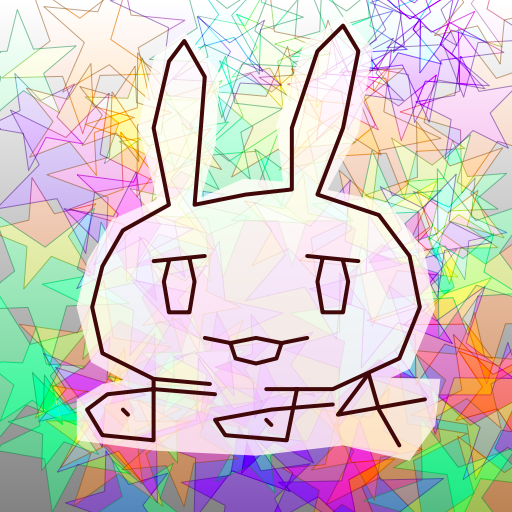
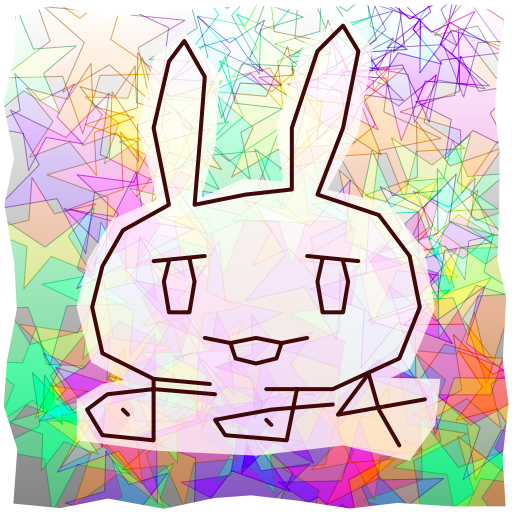
add frame to nanachi.rs

diff --git a/examples/nanachi.rs b/examples/nanachi.rs
@@ -10,7 +10,7 @@ use nanachi::{
     path_builder::PathBuilder,
     path_data_notation,
     path_transform::path_transform,
-    pixel::{Rgba, PremultipliedRgba},
+    pixel::{PremultipliedRgba, Rgba},
 };
 use rand_core::RngCore;
 use rand_pcg::Pcg32;
@@ -37,6 +37,7 @@ fn main() {
     let t = std::time::Instant::now();
     draw_nanachi(context.child());
     println!("elapsed: {:?}", t.elapsed());
+    draw_frame(context.child());
 
     let img: RgbaImage = (&context.image).into();
     let res = img.save("./nanachi.png");
@@ -256,19 +257,62 @@ fn draw_nanachi<'a>(mut context: ChildContext<'a, Pixel, GenericBuffer<Pixel>>) 
     };
     let mut path = nanachi_path;
     path.merge(&moji_path);
-    // let path = path
-    //     .as_points_list()
-    //     .unwrap()
-    //     .into_iter()
-    //     .map(|points| {
-    //         let close = points[0] == *points.last().unwrap();
-    //         Path::from_bezier2_points(&k_curve(points, close, 3))
-    //     })
-    //     .fold(Path::new(vec![]), |mut a, p| {
-    //         a.merge(&p);
-    //         a
-    //     });
     context.stroke(&path, &fill_style, 4.0);
+}
+
+fn draw_frame<'a>(mut context: ChildContext<'a, Pixel, GenericBuffer<Pixel>>) {
+    let mut rnd = Pcg32::new(0xcafef00dd15ea5e5, 0xa02bdbf7bb3c0a7);
+    let size = 8.0;
+    let mut rnd = || (1.0 - rnd.next_u32() as f64 / std::u32::MAX as f64 * 2.0) * size;
+    let mut builder = PathBuilder::new();
+    for i in 0..10 {
+        let (dx, dy) = (rnd(), rnd());
+        let i = i as f64 / 10.0;
+        builder.line_to(10.0 + i * (512.0 - 20.0) + dx, 10.0 + dy);
+    }
+    for i in 0..10 {
+        let (dx, dy) = (rnd(), rnd());
+        let i = i as f64 / 10.0;
+        builder.line_to(512.0 - 10.0 + dx, 10.0 + i * (512.0 - 20.0) + dy);
+    }
+    for i in 0..10 {
+        let (dx, dy) = (rnd(), rnd());
+        let i = i as f64 / 10.0;
+        builder.line_to(512.0 - 10.0 - i * (512.0 - 20.0) + dx, 512.0 - 10.0 + dy);
+    }
+    for i in 0..10 {
+        let (dx, dy) = (rnd(), rnd());
+        let i = i as f64 / 10.0;
+        builder.line_to(10.0 + dx, 512.0 - 10.0 - i * (512.0 - 20.0) + dy);
+    }
+    builder.close();
+    let path = builder.end();
+    // let path = smooth(&path);
+    context.fill(
+        &path,
+        &FillStyle::new(
+            fill_color::Solid::new(rgba(0, 0, 0, 255)),
+            compositor::DstIn,
+            fill_rule::EvenOdd,
+        ),
+    );
+}
+
+fn smooth(path: &Path) -> Path {
+    path.as_points_list()
+        .unwrap()
+        .into_iter()
+        .map(|mut points| {
+            let close = points[0] == *points.last().unwrap();
+            if close {
+                points.pop();
+            }
+            Path::from_bezier2_points(&k_curve(points, close, 3))
+        })
+        .fold(Path::new(vec![]), |mut a, p| {
+            a.merge(&p);
+            a
+        })
 }
 
 fn rgba(r: u8, g: u8, b: u8, a: u8) -> Pixel {
@@ -277,5 +321,6 @@ fn rgba(r: u8, g: u8, b: u8, a: u8) -> Pixel {
         g as f32 / 255.0,
         b as f32 / 255.0,
         a as f32 / 255.0,
-    ]).into()
+    ])
+    .into()
 }
